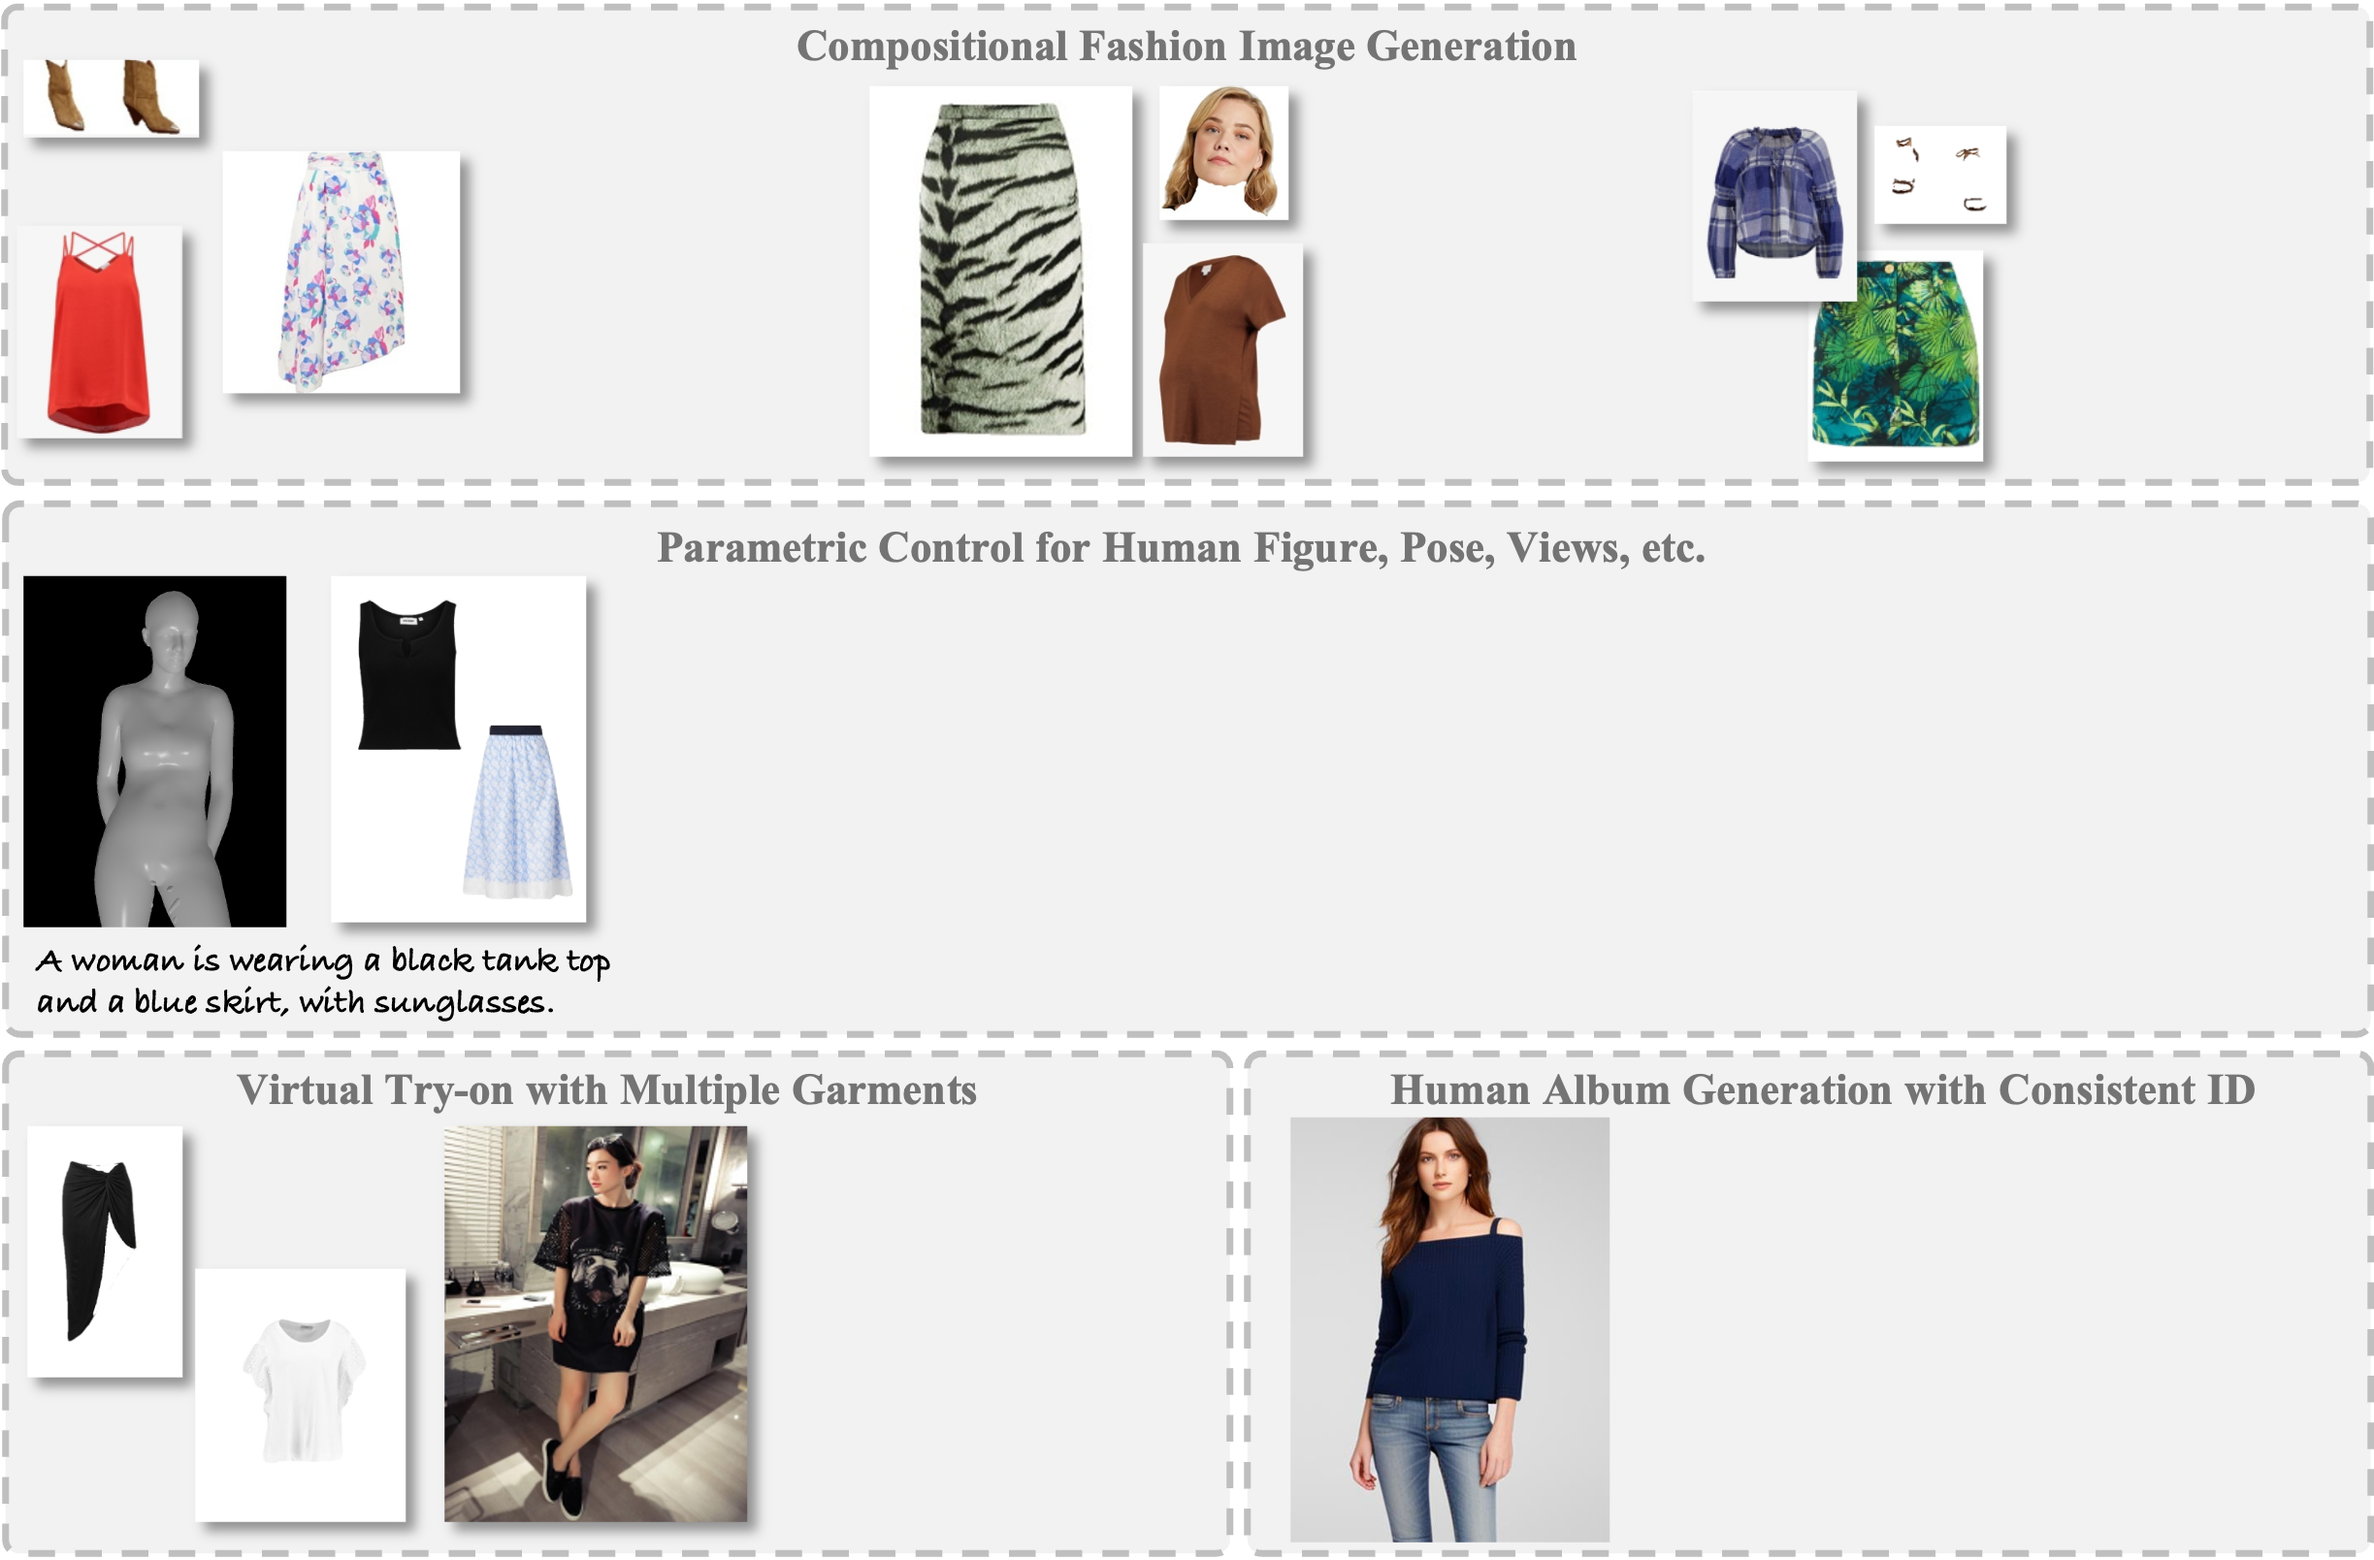
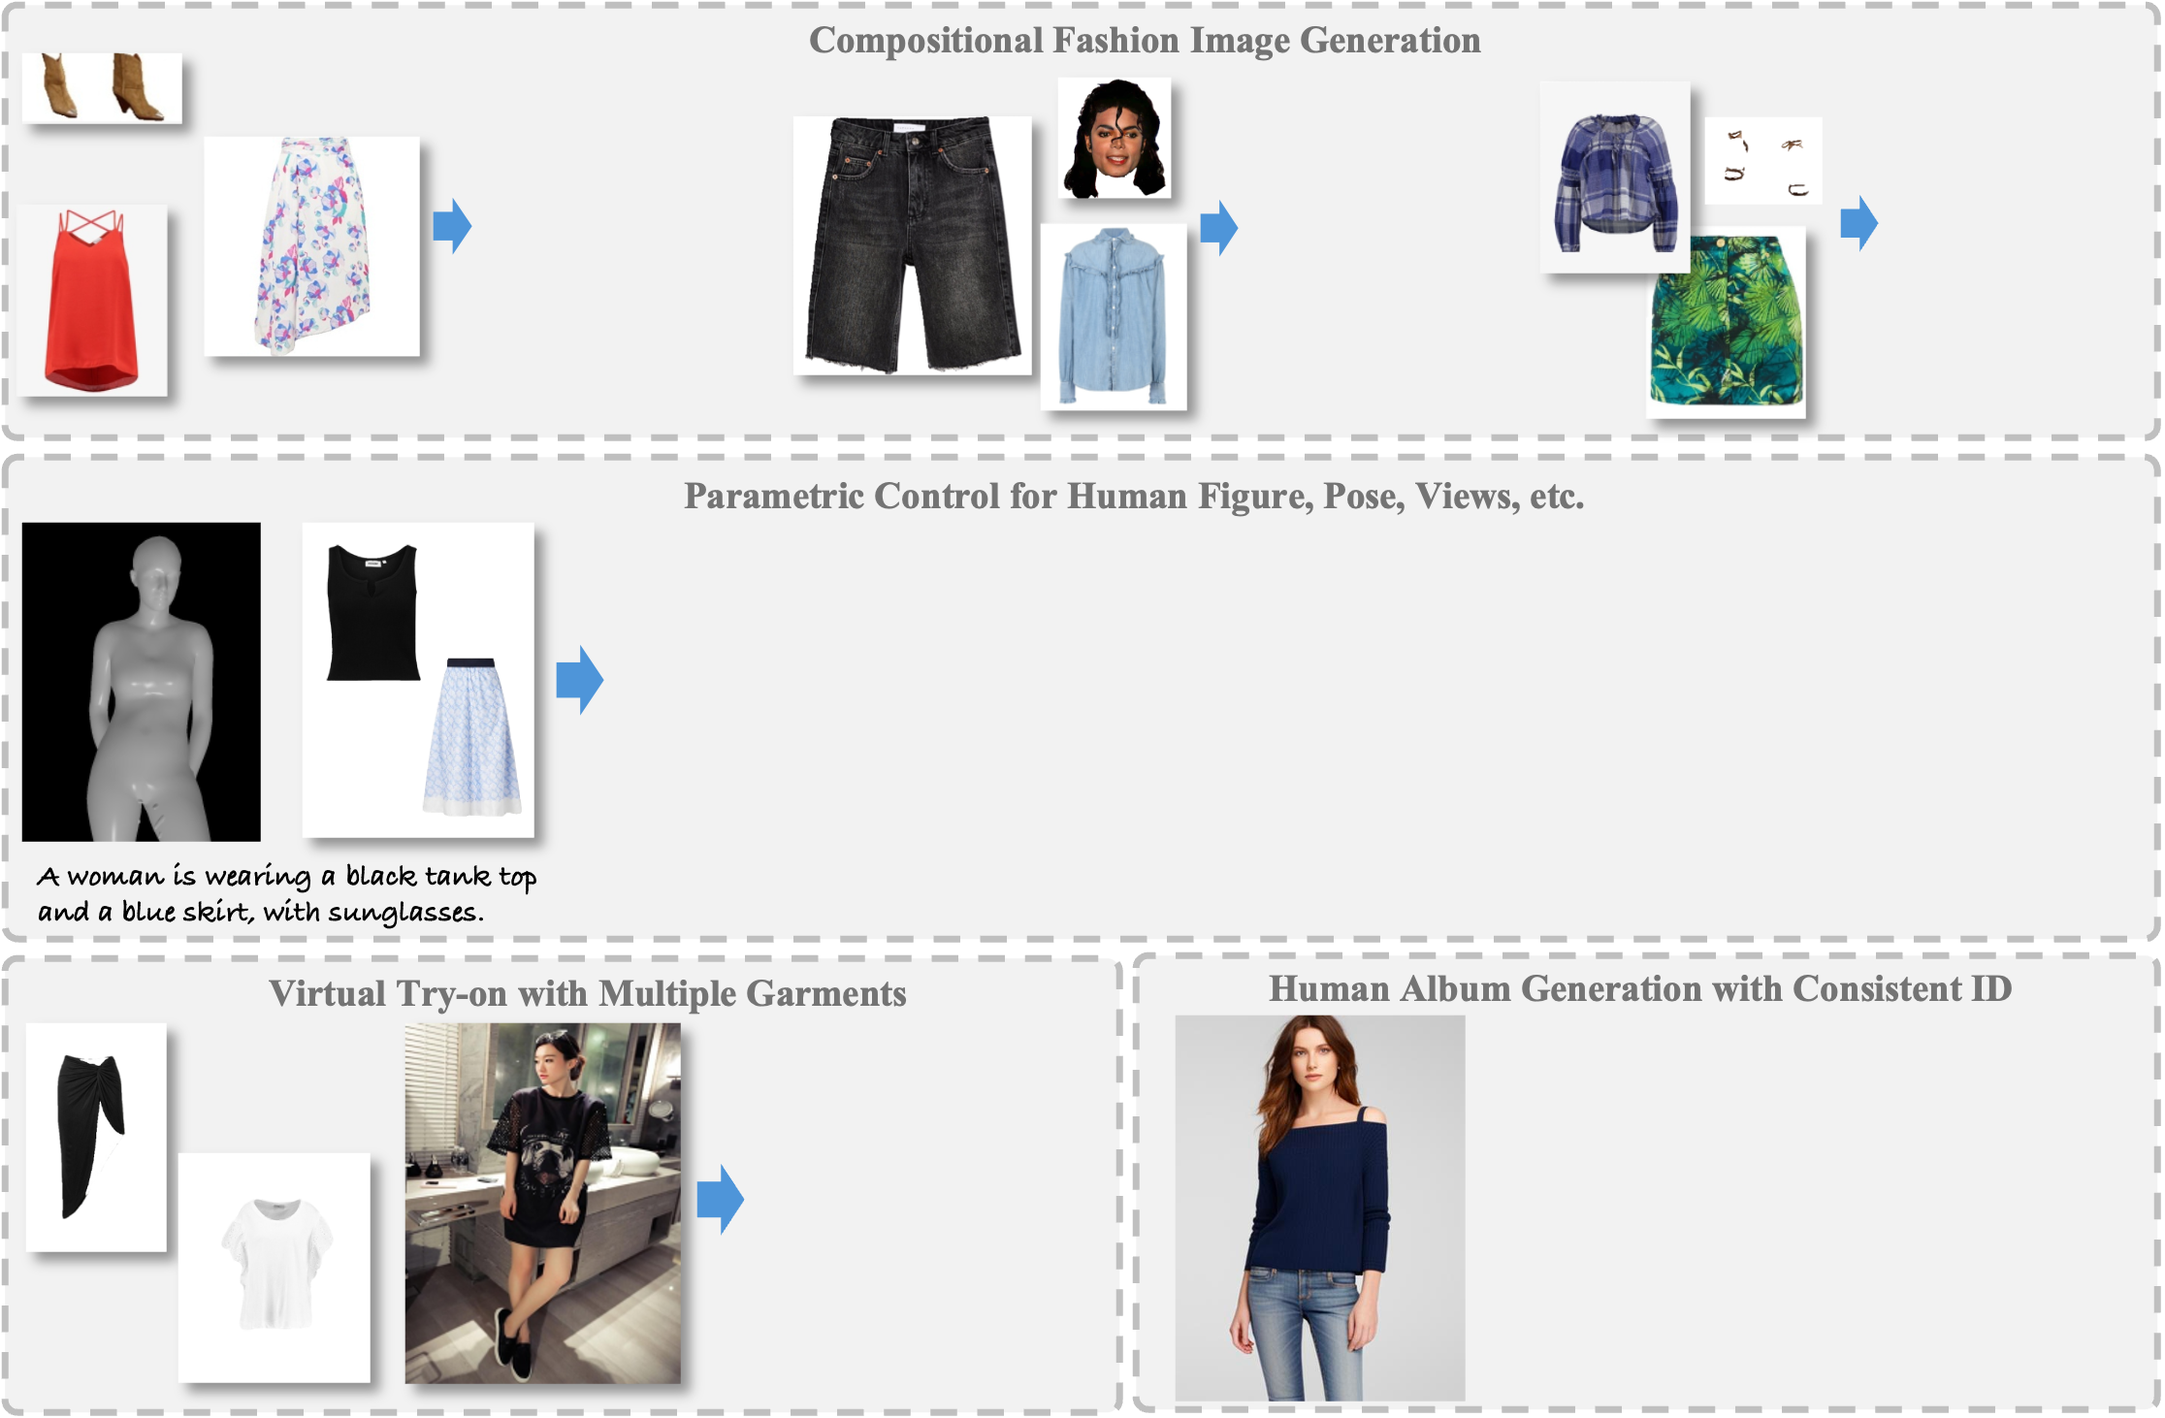
12.15

diff --git a/index.html b/index.html
@@ -4,9 +4,9 @@
   <meta name="viewport" content="width=device-width, initial-scale=0.2">
   <meta charset="utf-8">
   <meta name="description"
-        content="MimicBrush">
+        content="FashionComposer">
   <meta name="keywords" content="Image Editing, Composition, Texture Transfer">
-  <title>MimicBrush</title>
+  <title>FashionComposer</title>
 
 
   <script async src="https://www.googletagmanager.com/gtag/js?id=G-PYVRSFMDRL"></script>
@@ -61,8 +61,17 @@
       <div class="columns is-centered">
         <div class="column has-text-centered">
           <h1 class="title is-1 publication-title">
+            <span style="
+                      font-weight: bold;
+                      background: linear-gradient(to right, rgb(76, 97, 231), green, rgb(241, 241, 125));
+                      -webkit-background-clip: text;
+                      color: transparent;
+                    ">
+              FashionComposer
+            </span>
+            : Compositional Fashion Image Generation
             <!-- <img src="./static/images/logo.png" alt="图标描述" style="width: 80px; height: 80px; vertical-align: middle; margin-right: 0px; position: relative; top: -8px;"> -->
-            FashionComposer: Compositional Fashion Image Generation
+            <!-- FashionComposer: Compositional Fashion Image Generation -->
           </h1>
           <div class="is-size-5 publication-authors">
             <span class="author-block">
@@ -143,7 +152,7 @@
 </section>
 
 
-<section class="section">
+<section class="section" style="margin-top: 0; padding-top: 0;">
   <div class="container is-max-desktop">
     <div class="columns is-centered">
     <div class="columns is-centered">
@@ -155,7 +164,7 @@
             <p>
               Demonstration for the applications of FashionComposer. FashionComposer takes different kinds of conditions (e.g., garment
               image, face image, parametric human model) equally as “assets” to composite diverse and realistic fashion images. Thus supporting various
-              fashion-related applications like controllable model image generation, virtual try-on, human album generation, etc.
+              fashion-related applications like model image generation, virtual try-on, human album generation, etc.
             </p>
           </div>
   </div>
@@ -209,7 +218,7 @@
       <div class="column is-full-width">
         <h2 class="title is-3" style="text-align: center;">Multi-garment Composition with Face</h2>
         <div style="margin-top: 30px; text-align: center;">
-          <img src="./generate_images_v2/face/face/图片 2.png" alt="texture" width="100%">
+          <img src="./generate_images_v2/face/face/图片 3.png" alt="texture" width="100%">
         </div>
       </div>
     </div>
